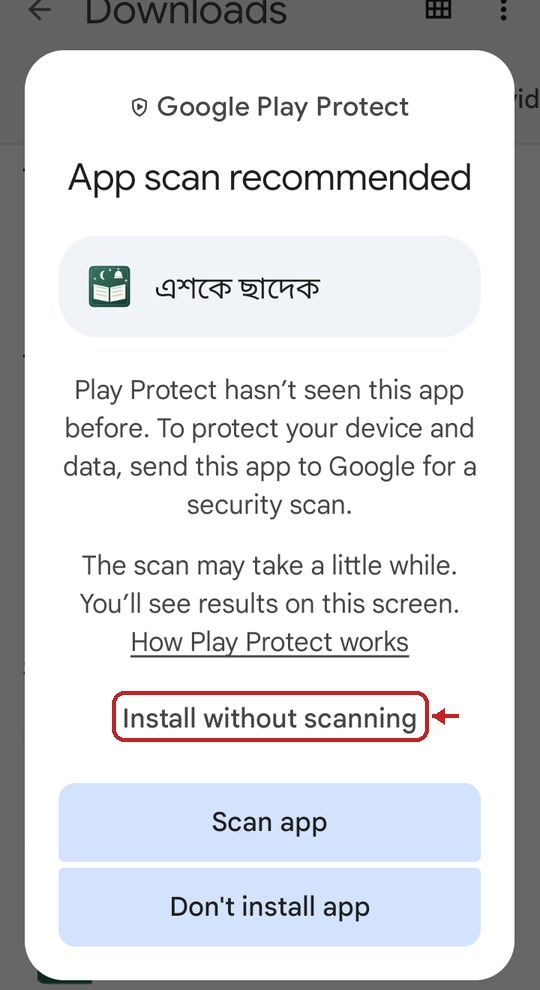
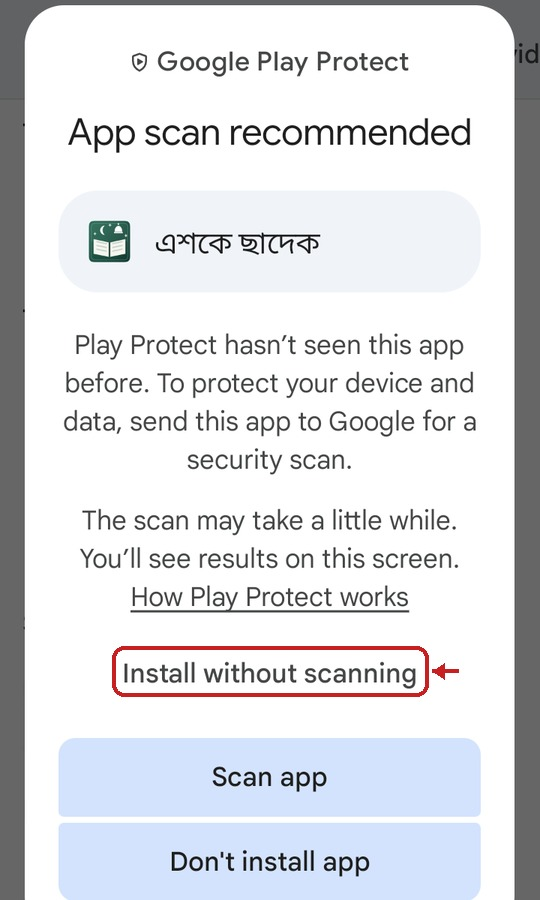
Clean up the install and Play Protect screenshots

diff --git a/index.html b/index.html
@@ -100,17 +100,17 @@
     <div class="step">
       <h3><span class="num">৫</span> INSTALL চাপুন</h3>
       <p>ফোনের ইনস্টলার এলে <b>INSTALL</b> চাপুন।</p>
-      <img class="shot" src="guide/step5-install.jpg" width="540" height="915" loading="lazy" alt="INSTALL বাটন">
+      <img class="shot" src="guide/step5-install.jpg" width="540" height="367" loading="lazy" alt="INSTALL বাটন">
       <p class="cap">INSTALL চাপুন</p>
     </div>
 
     <div class="step">
       <h3><span class="num">৬</span> Play Protect এলে “More details” চাপুন</h3>
       <p>অ্যাপটি Play Store-এ প্রকাশিত নয় বলে Play Protect প্রথমবার এই সতর্কতা দেখাতে পারে — এটি স্বাভাবিক। “App scan recommended”, “Play Protect hasn’t seen this app before” বা “Unsafe app blocked” এলে <b>More details</b> চাপুন।</p>
-      <img class="shot" src="guide/step6-playprotect.jpg" width="540" height="990" loading="lazy" alt="Play Protect — More details">
+      <img class="shot" src="guide/step6-playprotect.jpg" width="540" height="870" loading="lazy" alt="Play Protect — More details">
       <p class="cap">More details চাপুন</p>
       <p>তারপর <b>Install without scanning</b> চাপুন। কিছু ফোনে এই লেখাটি <b>Install anyway</b> হিসেবে দেখা যায়।</p>
-      <img class="shot" src="guide/step6-install-without-scanning.jpg" width="540" height="990" loading="lazy" alt="Install without scanning">
+      <img class="shot" src="guide/step6-install-without-scanning.jpg" width="540" height="900" loading="lazy" alt="Install without scanning">
       <p class="cap">Install without scanning / Install anyway চাপুন</p>
       <div class="note">“Don’t install app” বা “Scan app” চাপবেন না। <b>Play Protect বন্ধ করার দরকার নেই</b> — শুধু এই একটি অ্যাপের জন্য উপরের অপশনটি বেছে নিন।</div>
     </div>
